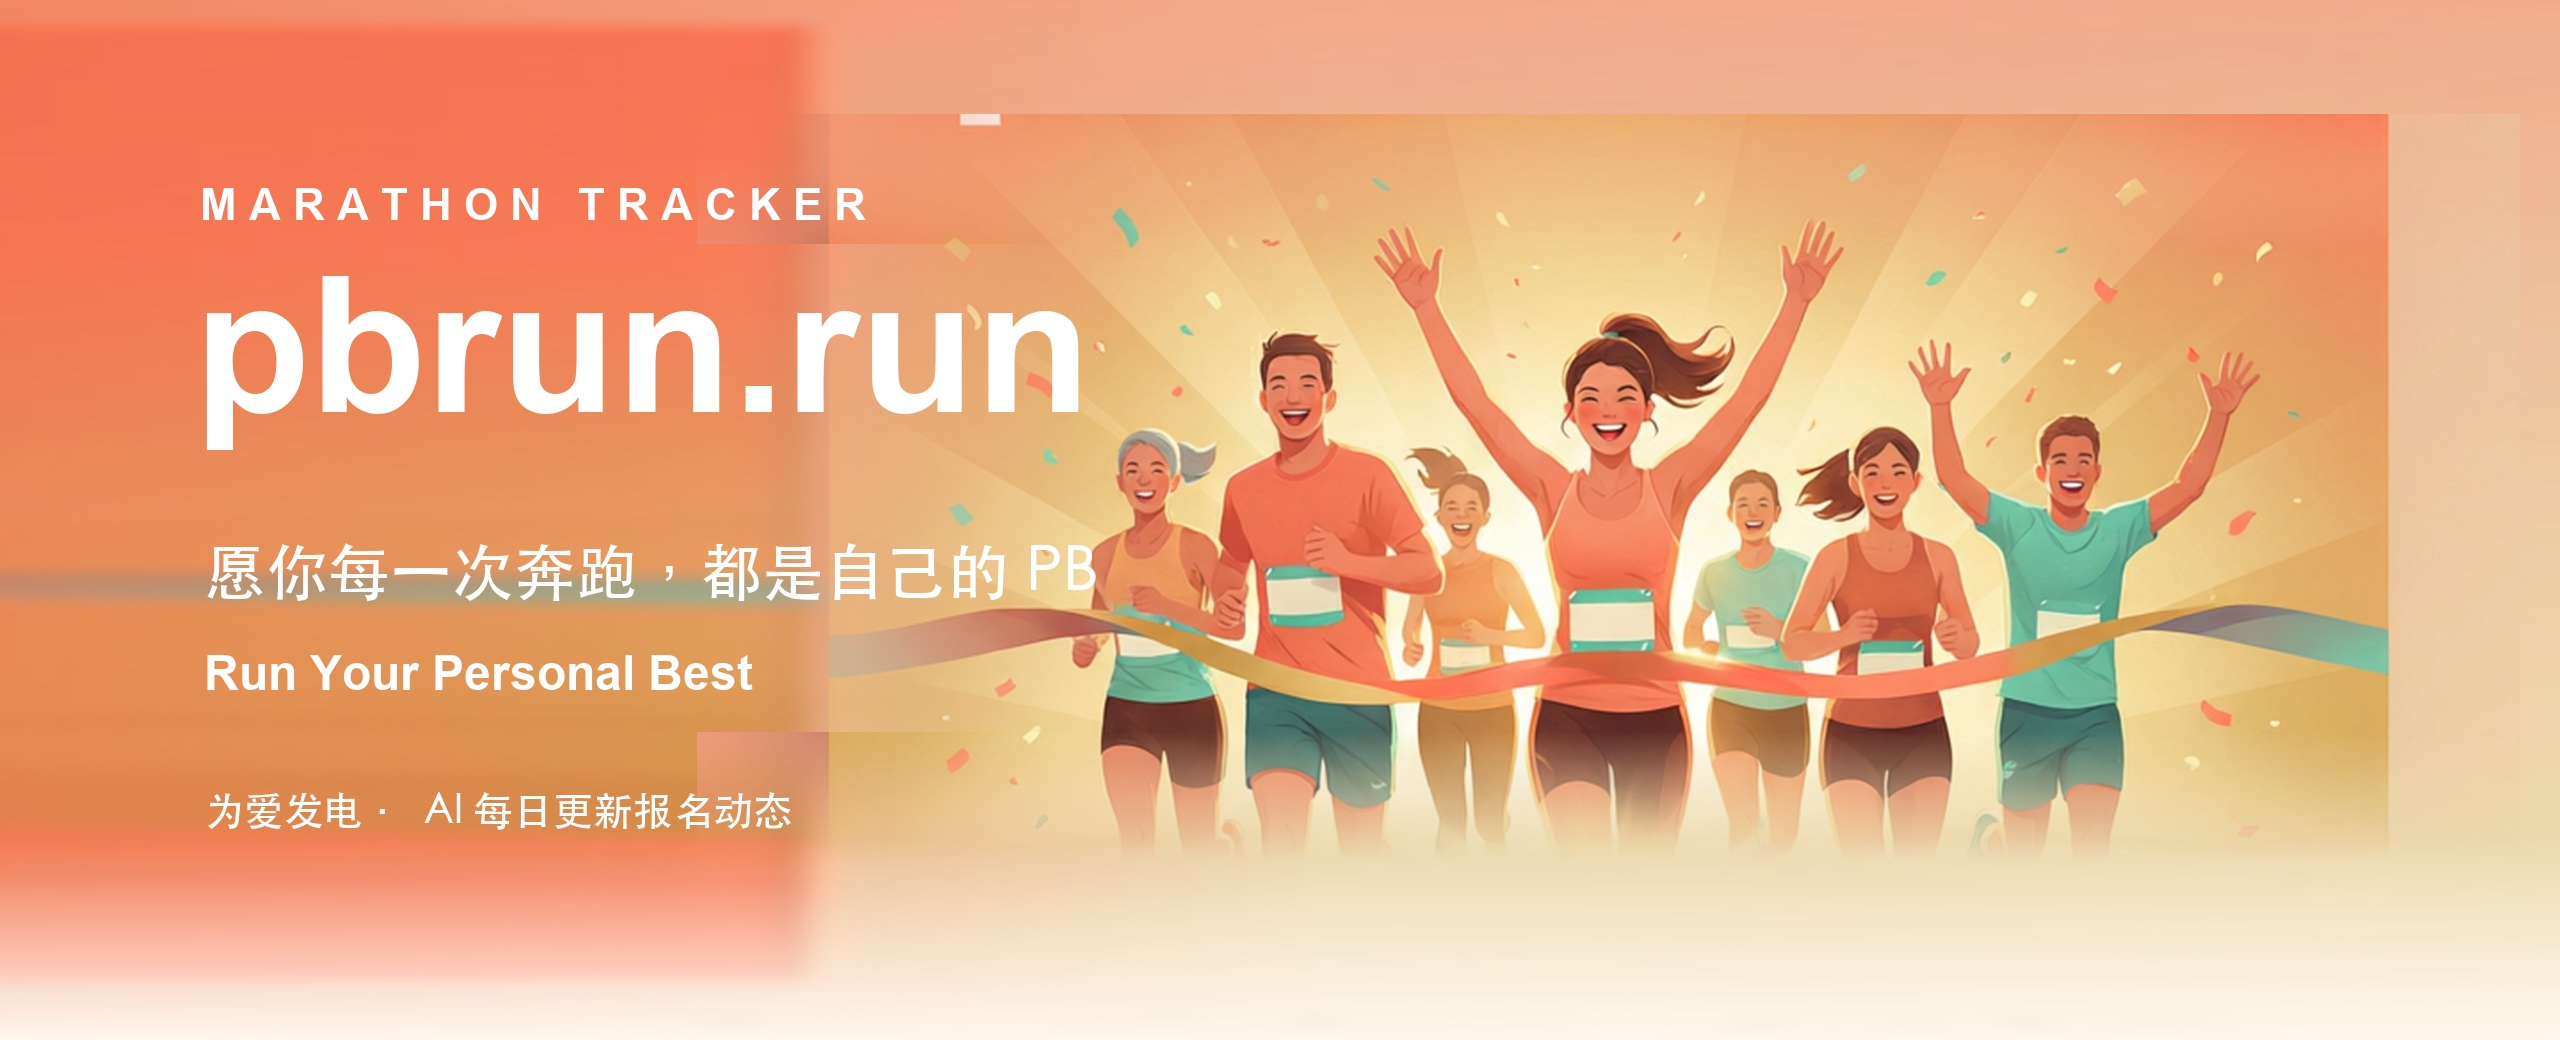
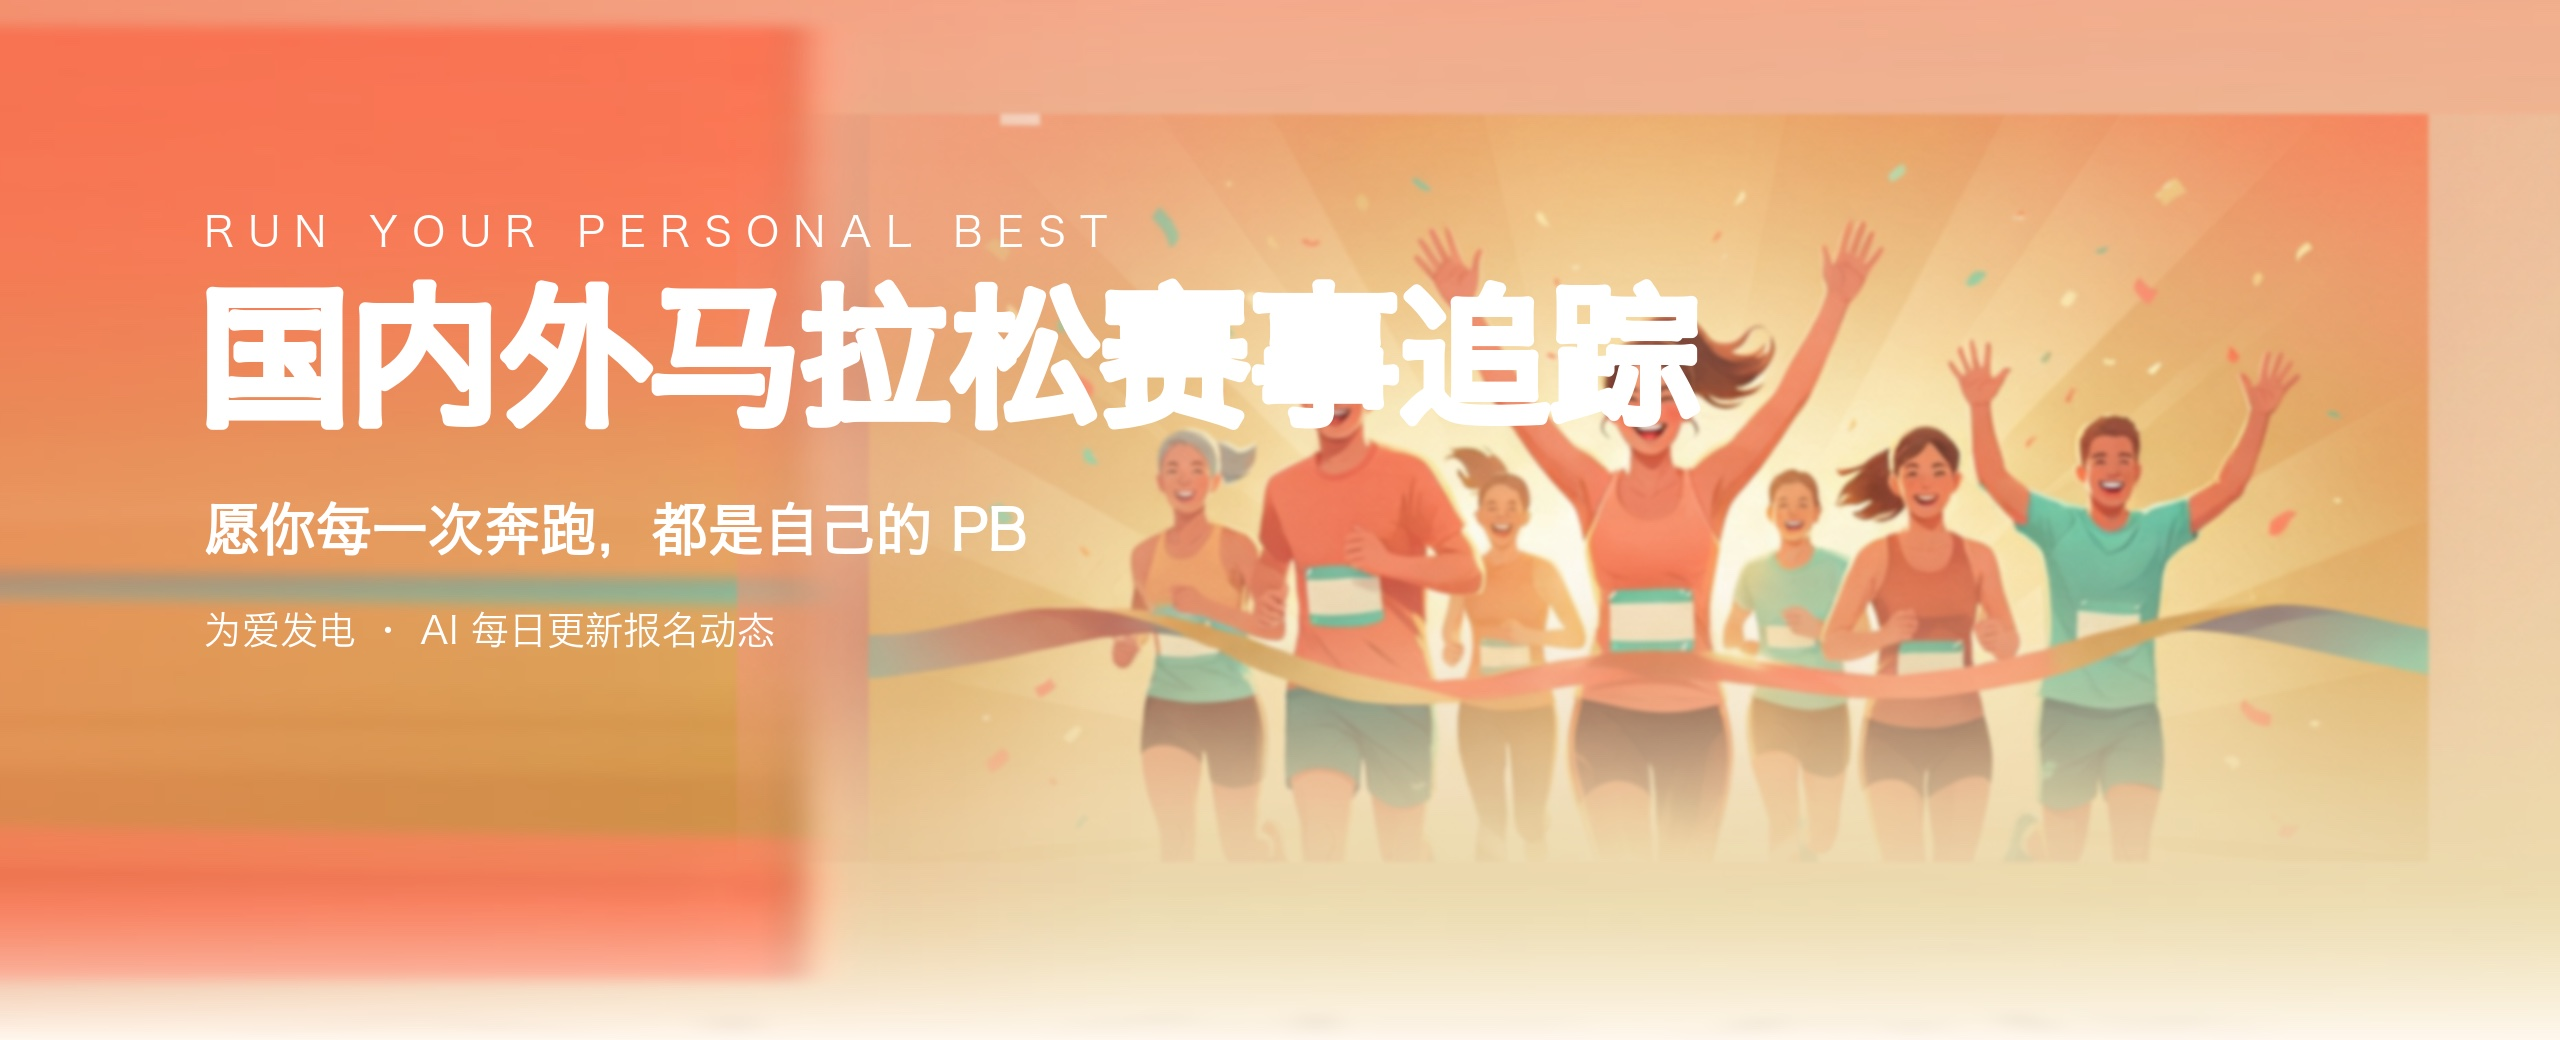
style: 头图大标题改产品名「国内外马拉松赛事追踪」并消除分层感；切换按钮缩小移至统计卡上方；新增返回顶部悬浮按钮

diff --git a/src/components/Tracker.tsx b/src/components/Tracker.tsx
@@ -1,6 +1,6 @@
 "use client";
 
-import { useMemo, useState } from "react";
+import { useEffect, useMemo, useState } from "react";
 import type { Race } from "@/types/race";
 import { deriveStatus, sortRaces, computeStats } from "@/lib/status";
 import StatsBar from "./StatsBar";
@@ -50,6 +50,14 @@ export default function Tracker({ races, nowIso }: { races: Race[]; nowIso: stri
   const now = useMemo(() => new Date(nowIso), [nowIso]);
   const [tab, setTab] = useState<"domestic" | "international">("domestic");
   const [filters, setFilters] = useState<Filters>(DEFAULT_FILTERS);
+  // 返回顶部：滚动超过一屏后显示悬浮按钮
+  const [showTop, setShowTop] = useState(false);
+  useEffect(() => {
+    const onScroll = () => setShowTop(window.scrollY > 600);
+    onScroll();
+    window.addEventListener("scroll", onScroll, { passive: true });
+    return () => window.removeEventListener("scroll", onScroll);
+  }, []);
 
   const domestic = useMemo(() => races.filter(r => r.country === "中国"), [races]);
   const international = useMemo(() => races.filter(r => r.country !== "中国"), [races]);
@@ -116,32 +124,31 @@ export default function Tracker({ races, nowIso }: { races: Race[]; nowIso: stri
     <div className="min-h-screen bg-orange-50">
       {/* 品牌头图：21:9 宽幅 banner（源自朋友圈主图素材），底部淡出已做进图片本体 */}
       <header>
-        <h1 className="sr-only">pbrun.run — 马拉松赛事追踪，愿你每一次奔跑，都是 Personal Best</h1>
+        <h1 className="sr-only">国内外马拉松赛事追踪 — 愿你每一次奔跑，都是 Personal Best</h1>
         <img
           src="/hero.jpg"
-          alt="pbrun.run — Run Your Personal Best，愿你每一次奔跑都是自己的 PB"
+          alt="国内外马拉松赛事追踪 — Run Your Personal Best，愿你每一次奔跑都是自己的 PB"
           className="block w-full"
         />
       </header>
 
       <main className="mx-auto mt-6 max-w-5xl px-4 pb-10">
-        <StatsBar open={stats.open} drawing={stats.drawing} countdown={stats.countdown} updatedAt={updatedAt} />
-
-        {/* 国内 / 国际切换 */}
-        <div className="mt-6 flex gap-2">
+        {/* 国内 / 国际切换：小按钮置于统计卡片上方 */}
+        <div className="mb-2 flex gap-1.5">
           {([["domestic", "🇨🇳 全国赛事"], ["international", "🌍 国际赛事"]] as const).map(([k, label]) => (
             <button
               key={k}
               onClick={() => { setTab(k); setFilters(DEFAULT_FILTERS); }}
-              className={`rounded-full px-5 py-2 text-sm font-semibold transition-colors ${
+              className={`rounded-full px-3 py-1 text-xs font-semibold transition-colors ${
                 tab === k ? "bg-orange-500 text-white shadow-sm" : "border border-orange-200 bg-white text-slate-600 hover:bg-orange-50"
               }`}
             >
               {label}
-              <span className="ml-1.5 text-xs opacity-70">{k === "domestic" ? domestic.length : international.length}</span>
+              <span className="ml-1 opacity-70">{k === "domestic" ? domestic.length : international.length}</span>
             </button>
           ))}
         </div>
+        <StatsBar open={stats.open} drawing={stats.drawing} countdown={stats.countdown} updatedAt={updatedAt} />
 
         {/* 报名雷达：正在报名的赛事置顶 */}
         {openRaces.length > 0 && (
@@ -216,6 +223,17 @@ export default function Tracker({ races, nowIso }: { races: Race[]; nowIso: stri
           {ICP_NUMBER && <p className="mt-1 text-xs text-slate-400">{ICP_NUMBER}</p>}
         </footer>
       </main>
+
+      {/* 返回顶部：月份导航跳转后可一键回顶 */}
+      {showTop && (
+        <button
+          onClick={() => window.scrollTo({ top: 0, behavior: "smooth" })}
+          aria-label="返回顶部"
+          className="fixed bottom-6 right-4 z-20 flex h-11 w-11 items-center justify-center rounded-full bg-orange-500 text-lg text-white shadow-lg transition-colors hover:bg-orange-600 sm:right-6"
+        >
+          ↑
+        </button>
+      )}
     </div>
   );
 }

diff --git a/src/components/StatsBar.tsx b/src/components/StatsBar.tsx
@@ -2,9 +2,9 @@ export default function StatsBar({ open, drawing, countdown, updatedAt }: {
   open: number; drawing: number; countdown: number; updatedAt: string;
 }) {
   const items = [
-    { label: "报名中赛事", value: open, color: "text-emerald-600" },
-    { label: "抽签中赛事", value: drawing, color: "text-amber-600" },
-    { label: "备赛倒计时", value: countdown, color: "text-orange-500" },
+    { label: "🔥 报名中赛事", value: open, color: "text-emerald-600" },
+    { label: "🎲 抽签中赛事", value: drawing, color: "text-amber-600" },
+    { label: "📅 备赛倒计时", value: countdown, color: "text-orange-500" },
   ];
   return (
     <div>
